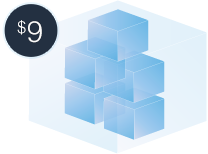
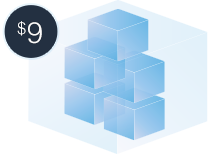
add more pricing assets

diff --git a/app/styles/_assets.scss b/app/styles/_assets.scss
@@ -244,3 +244,11 @@
         position: 100% 50%;
     }
 }
+
+@mixin image_key_box {
+    background: {
+        image:url('../images/pricing/img_keybox.png');
+        repeat:no-repeat;
+        position: 50% 50%;
+    }
+}
